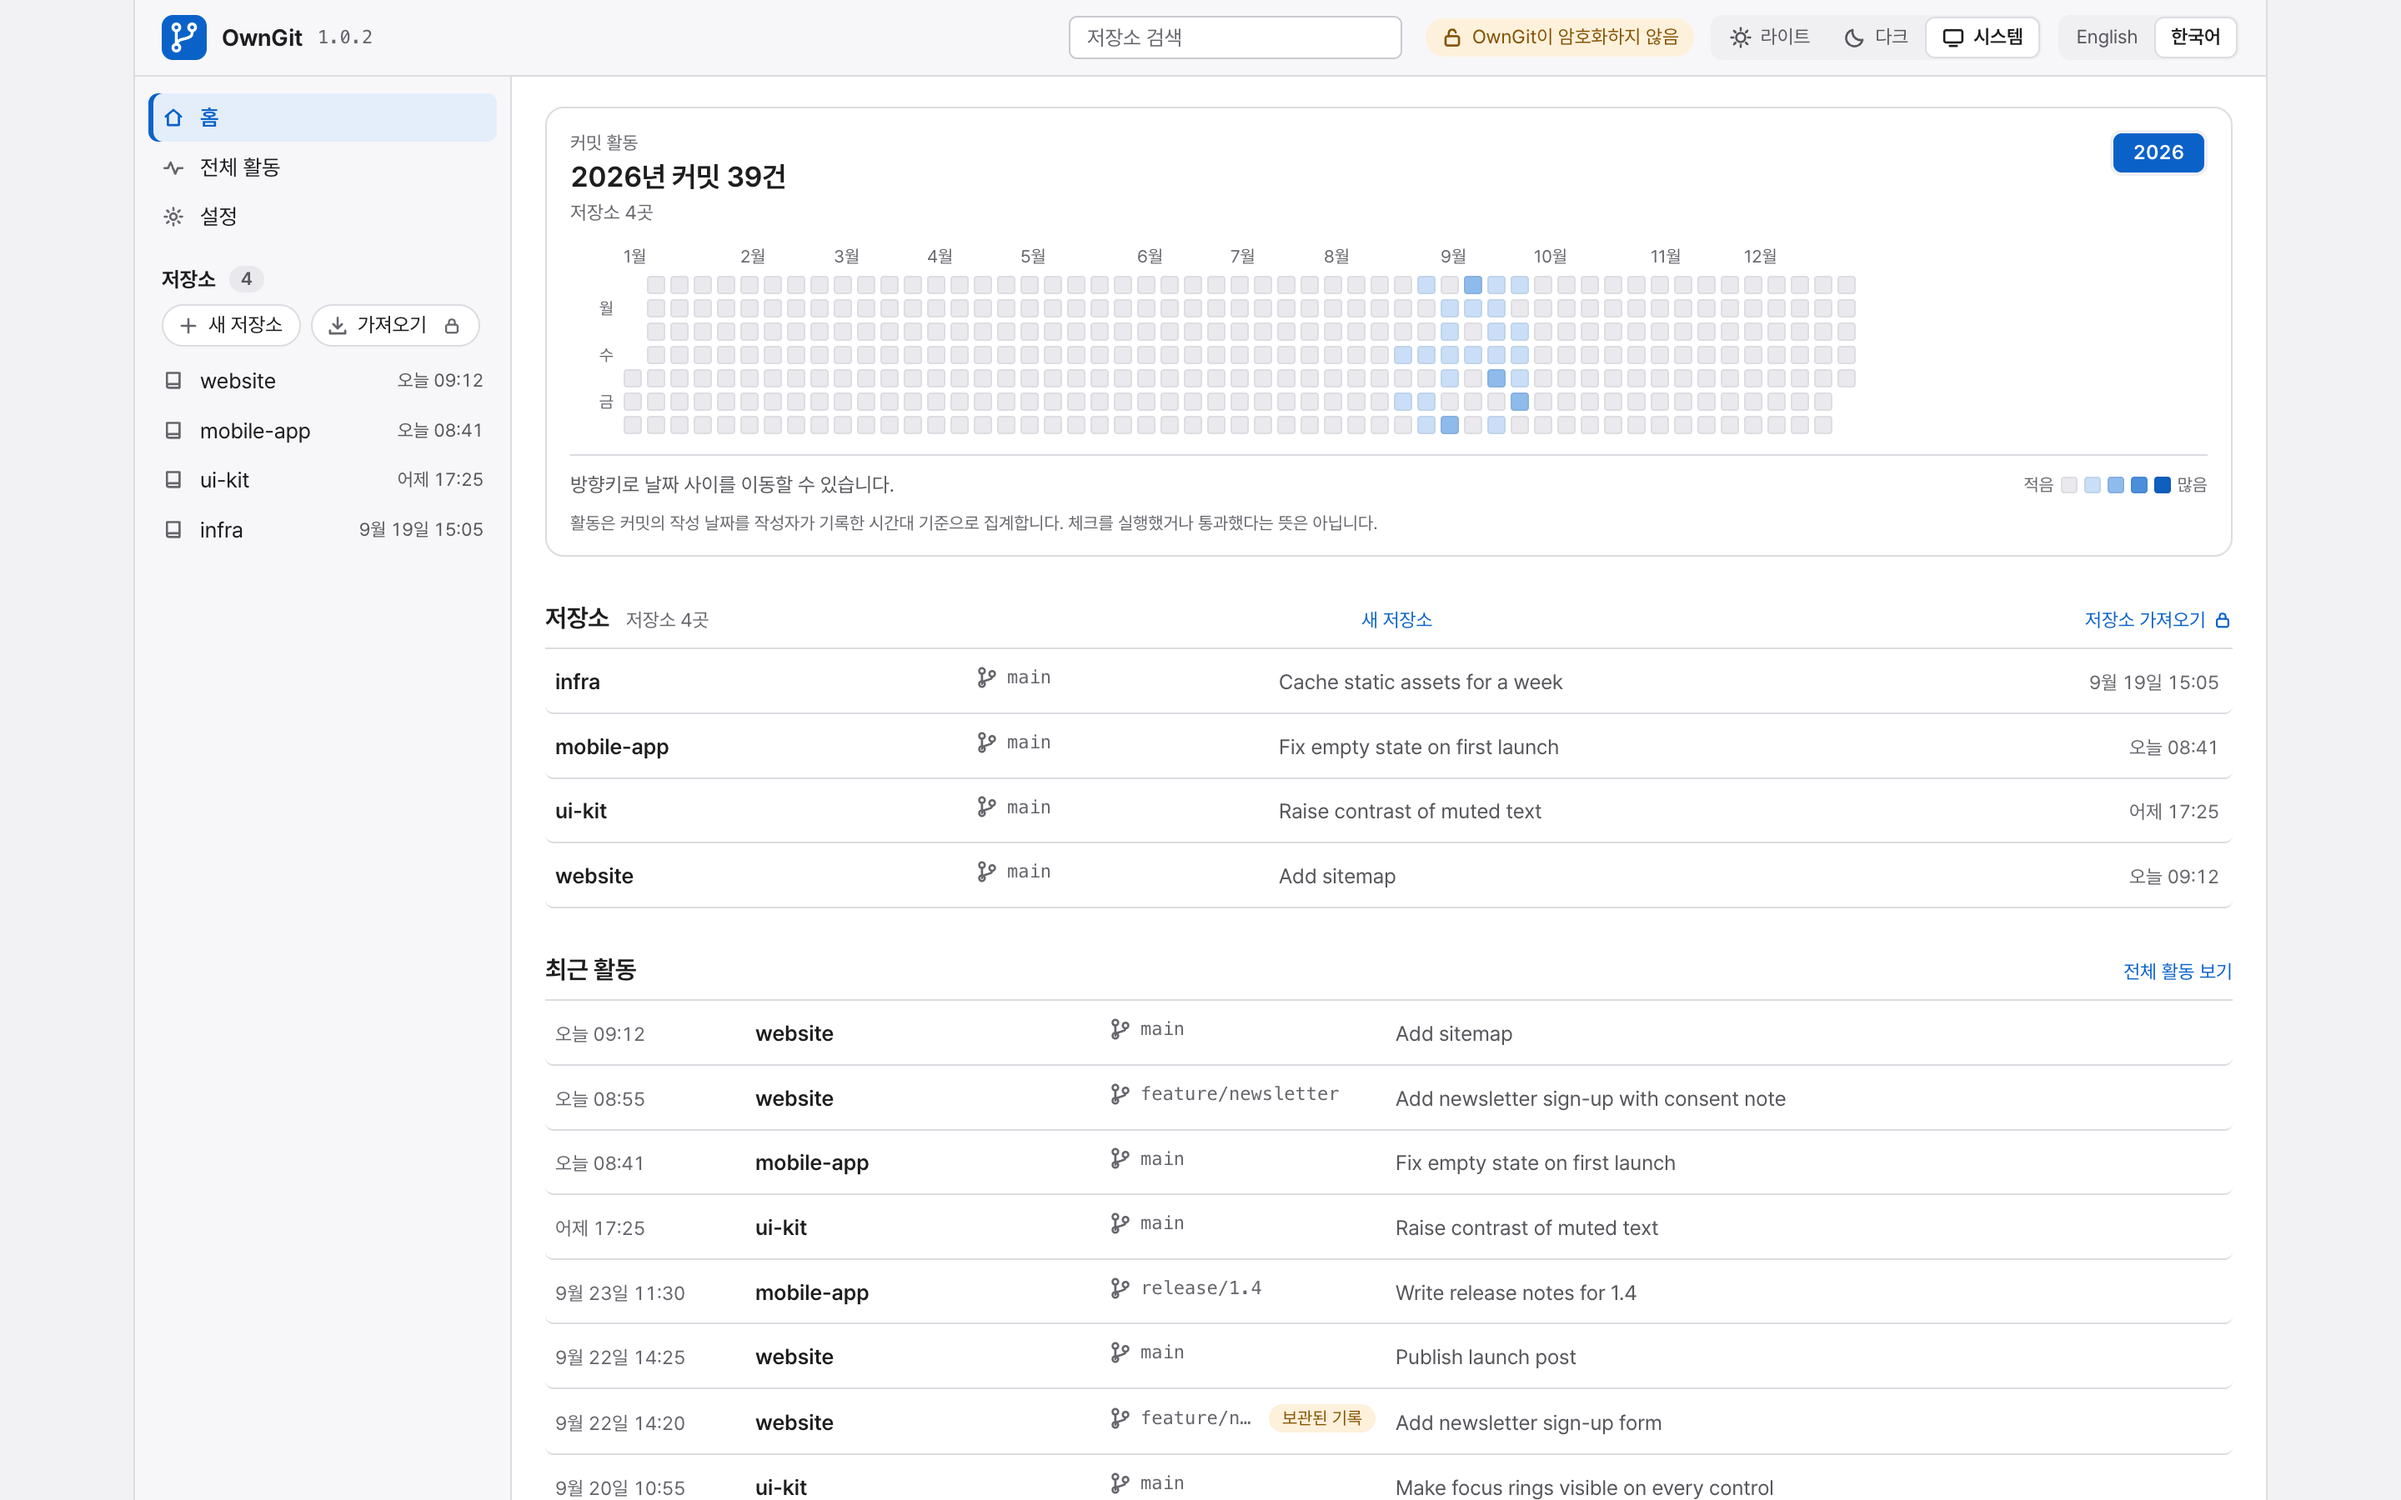
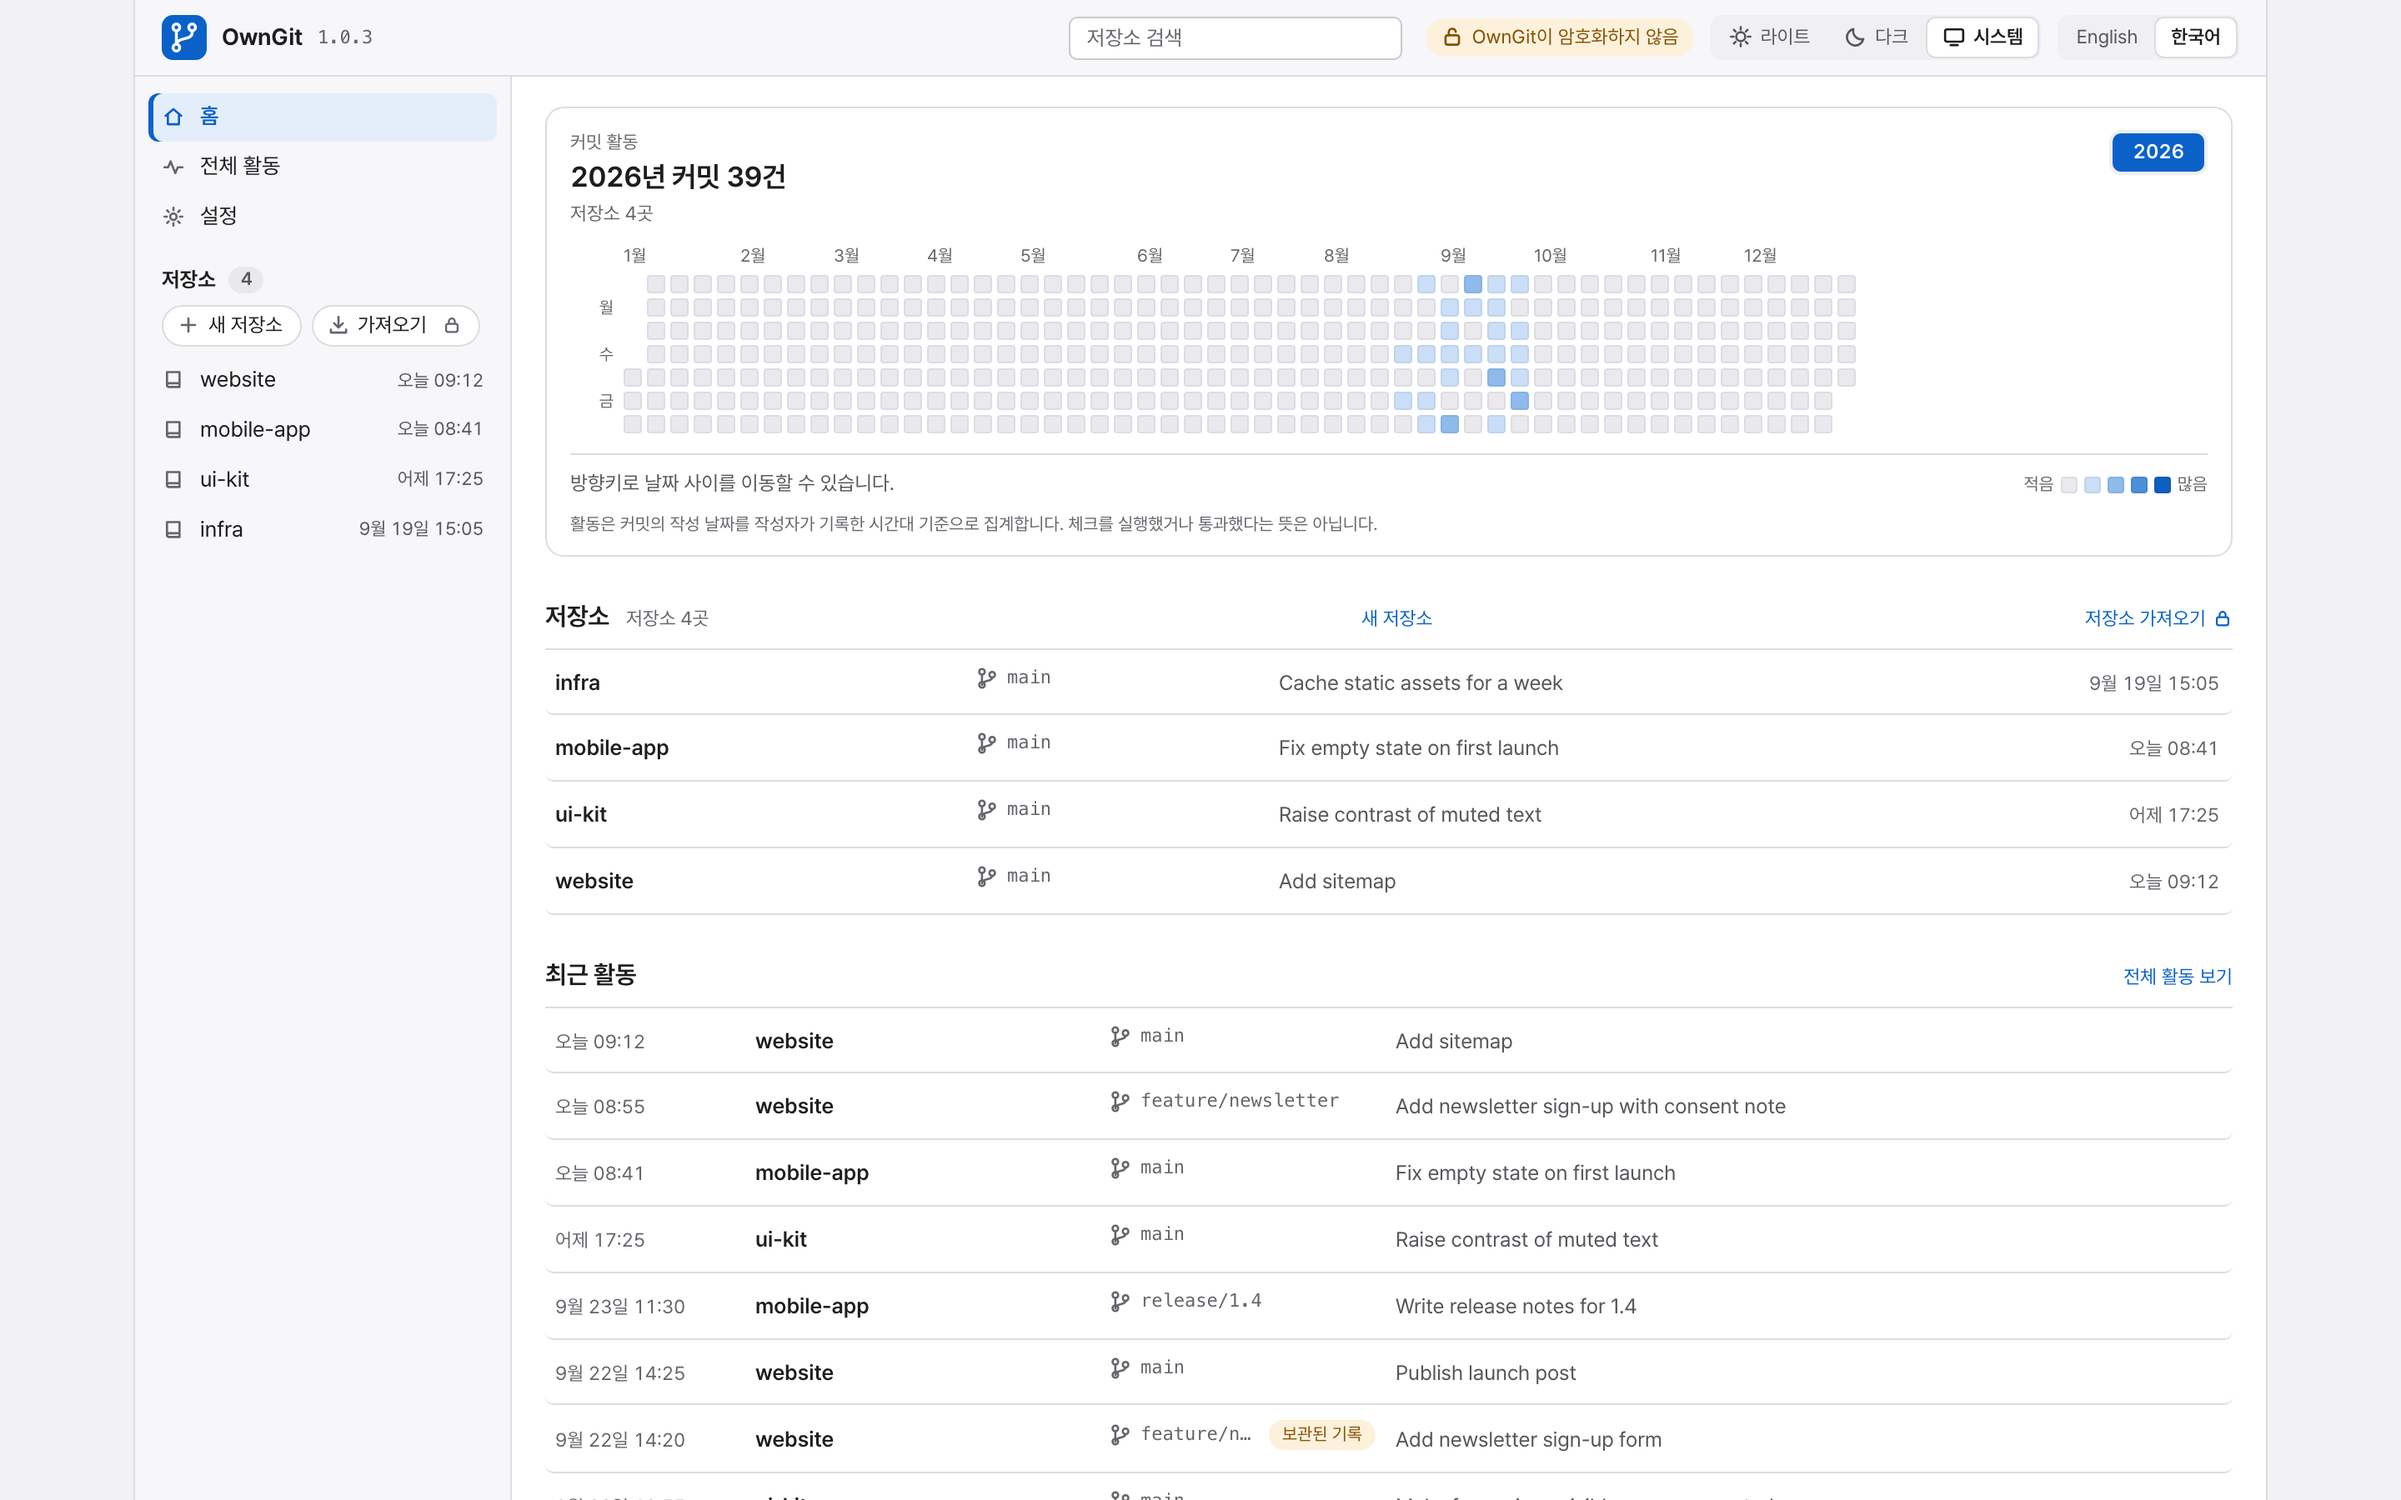
release: 1.0.3
Version 1.0.3, the CHANGELOG section, the version badges and the README
screenshots of the current dashboard.

diff --git a/internal/version/version.go b/internal/version/version.go
@@ -7,4 +7,4 @@
 package version
 
 // Version is the only application version literal in the source tree.
-const Version = "1.0.2"
+const Version = "1.0.3"

diff --git a/CHANGELOG.md b/CHANGELOG.md
@@ -4,6 +4,73 @@ All notable changes to OwnGit are documented in this file.
 
 The format is based on [Keep a Changelog](https://keepachangelog.com/en/1.1.0/).
 
+## [1.0.3] - 2026-09-25
+
+**Upgrading:** the state database moves to schema 15 and offline backups to version 10. OwnGit 1.0.3 upgrades a 1.0.x database the first time it starts and still restores backups of versions 1, 2, 9 and 10. Earlier versions refuse the upgraded database and the new backups with a "newer version" message. To go back, restore a backup made before upgrading with the earlier version. Before you upgrade, stop OwnGit and make a backup with your current version's `owngit backup` (see Offline backups in the operations guide). Any 1.0.3 command that opens the state, including `backup`, upgrades the database first, and it logs one line when it does.
+
+**Changes for scripts:** `import add` and `import refresh` exit with status 3 when a finished run left refs that differ from the source, and with status 130 when cancelled. `check run` without `--check` runs only the checks committed in the revision it tests. Commands called without an action, and actions given another action's options, now fail with usage. Details are below.
+
+### Added
+
+- First-run setup in the terminal. When `owngit serve` starts in an interactive terminal on an installation that is not set up, it asks the setup questions there, starting with the language, and hides passwords as you type. You can choose the web dashboard instead: the browser and the terminal show the same short code, and you approve that browser in the terminal. Services, background jobs and redirected output keep the setup link flow. The last step prints a ready-to-copy command for reaching OwnGit over Tailscale when Tailscale is running; it changes nothing.
+- Pull requests can be closed without merging and reopened, in the browser, the API and `owngit pr close` and `owngit pr reopen`. Only one open pull request per source and target branch is allowed.
+- A sidebar replaces the tab row. Outside a repository it lists Home, All activity, Settings and your repositories by recent activity; inside one it lists the repository's pages. On narrow screens it folds into a menu.
+- The repository overview shows the README and the languages the repository is written in. Language colors come from GitHub Linguist.
+- Markdown files are rendered, with a Preview and Source switch; folders show their README. Rendering runs in a separate, time- and memory-limited process with raw HTML turned off.
+- The Code tab previews PNG, JPEG, GIF and WebP images up to 10 MB and has "Download this file". Long lines do not wrap unless you turn on Wrap lines, which is remembered.
+- Commit and pull request pages list the changed files first and show all diffs on one page, with controls to collapse each file or all of them.
+- A notice on the dashboard when a new OwnGit release is available, with links to the release notes and install instructions. OwnGit checks GitHub about 30 seconds after it starts and then daily, and sends nothing but its version. Turn it off in Settings or with `owngit serve --no-update-check`. OwnGit does not download or install updates.
+- Idle-time repository maintenance. Five minutes after a repository was last changed and used, OwnGit packs its refs and objects and writes a commit graph; between 03:00 and 05:00 it also combines repositories with many packs. It never removes objects, refs or kept history, and it steps aside for pushes, checks and page views.
+- Arch Linux and Omarchy: each release includes a `PKGBUILD` that installs the release binary with `makepkg -si`. See the README.
+- `owngit <command> --help` prints the command's usage and options.
+- Korean versions of the operations, automatic checks, coding tools and security guides.
+
+### Changed
+
+- Pull request changes are compared from the merge base, like `git diff target...source`. Files that only the target branch received are no longer listed. Without a single common commit, the page says so instead of showing a list.
+- Repository pages start far fewer Git processes (for example, pull request details 3 instead of 46) and keep recently read folders, files, diffs and comparisons in memory, up to 64 MiB. A page opened again answers even while a push holds the repository. Server memory can peak about 100 MB higher.
+- Refs changed directly in the repository folder, without OwnGit, reach code and commit pages after OwnGit next writes to that repository or restarts, as they already did on the dashboard.
+- When one repository cannot be prepared at startup, for example because its network share hangs, OwnGit serves the other repositories and keeps retrying that one in the background. Until it is ready, its pages show a notice and Git requests answer 503.
+- A busy repository no longer stalls the dashboard. The dashboard waits about a second and then shows the last listing or "In use"; a busy repository page answers 503 with `Retry-After`.
+- A missing branch, tag, path or commit answers 404 on every repository tab, with a way back to the repository.
+- Check jobs for several branches pushed in quick succession wait for the repository instead of ending as unavailable.
+- Saving a new check policy no longer queues again the branches and pull requests that already had a job. Jobs still waiting when a new policy is saved end as `interrupted`.
+- `owngit runner` keeps running while OwnGit restarts or the network drops, retrying with backoff. It stops only when its token or requests are refused.
+- `owngit import cancel` cancels a first import at any stage before the repository is published and leaves no repository, source or credentials behind.
+- On macOS, when Git on the PATH is Apple's `/usr/bin/git` shim, OwnGit runs the Git behind it if the version matches, which halves the cost of each Git process.
+- OwnGit holds a lock file in the repository folder while it runs, so a second OwnGit started from a copied state directory stops instead of changing the repositories.
+- The Import tab is shown to everyone who can open the repository. The source address, credentials and technical messages are shown only to administrators.
+- Password length rules count characters instead of bytes (8 to 1024).
+- Light, Dark and System appearance work without JavaScript.
+- `import add` refuses a name that already has a repository. `import add` and `import refresh` exit with status 3 when a finished run left refs that differ from the source and list them, and with status 130 when cancelled.
+- Commands without an action print usage and exit 1, and actions refuse options that belong to another action.
+- When OwnGit upgrades an existing state database, it says so in one line, for example `state database upgraded from schema 14 to 15`: in the server log for `serve`, and on standard error for offline commands such as `backup`.
+- A Markdown list or paragraph without blank lines that has more than about 8,000 `*`, `_` or `~` characters (underscores inside words count) shows as source from a smaller size than before, because rendering it can take the whole time limit on a slower machine. Documents made of ordinary paragraphs render as before.
+
+### Fixed
+
+- Clone, fetch and pull failed when Git compressed its request, for example when cloning a repository with 18 or more branches and tags. OwnGit now decompresses these requests with a size limit.
+- Parallel Git commands with the correct shared password were refused by the sign-in limiter.
+- One repository could take every transfer slot, and a waiting request could wait up to 30 minutes. A repository now uses at most four of the five slots, and a request that waits more than 90 seconds gets 503.
+- A stalled or oversized upload held its connection and slot until the 30-minute deadline.
+- A repository whose folder was missing or unreadable turned the dashboard into an error page. It is now listed as Preparing or Unreadable.
+- Repository names ending with a dot could not be cloned or pushed.
+- Merging a pull request whose source the target already contained wrote an empty merge commit. It is now recorded as merged, already up to date.
+- A default branch change or repository deletion could fail with 409 while the activity graph was being counted.
+- Saving an import token or Basic credential dropped a stored CA certificate, and the reverse. A failed or interrupted first import left its source and credentials behind.
+- A ref deleted at the import source was shown as Tracked. It is now shown as Deleted at source.
+- After a session expired, submitting a form returns to the page with the form after you sign in again.
+- Result notices, such as "Pull request merged", could be shown by opening a crafted address and appeared again on reload. They now appear once, after the action.
+- Signing out of shared access was confirmed only after the next sign-in.
+- Merging or reviewing after a branch was deleted answered 500 in the API.
+- Stopping OwnGit during a Git transfer now ends the transfer and exits normally. Refused pushes are logged.
+- On Windows, an automatic check whose command succeeded was sometimes recorded as `error` with a cleanup error such as "owned job membership changed during process capture".
+- On Windows, cancelling a Git request, for example when the client disconnects, could leave a Git process that produced no output running until it wrote output or exited on its own. It now stops at once.
+
+### Security
+
+- `owngit check run` without `--check` no longer falls back to a check configuration recorded from another branch. A command that is not committed in the revision being tested never runs on your machine.
+
 ## [1.0.2] - 2026-09-24
 
 ### Added

diff --git a/README.ko.md b/README.ko.md
@@ -5,7 +5,7 @@
 <h1 align="center">OwnGit</h1>
 
 <p align="center">
-  <a href="CHANGELOG.md"><img src="https://img.shields.io/badge/version-1.0.2-0A62C9?style=flat&colorA=222222" alt="버전 1.0.2"></a>
+  <a href="CHANGELOG.md"><img src="https://img.shields.io/badge/version-1.0.3-0A62C9?style=flat&colorA=222222" alt="버전 1.0.3"></a>
   <a href="CHANGELOG.md"><img src="https://img.shields.io/badge/changelog-keep-E05735?style=flat&colorA=222222" alt="변경 기록"></a>
   <a href="LICENSE"><img src="https://img.shields.io/badge/license-MIT-58A6FF?style=flat&colorA=222222" alt="MIT 라이선스"></a>
   <a href="https://github.com/juliankang4/homebrew-tap"><img src="https://img.shields.io/badge/Homebrew-juliankang4%2Ftap-FBB040?style=flat&colorA=222222&logo=homebrew&logoColor=white" alt="Homebrew tap juliankang4/tap"></a>

diff --git a/README.md b/README.md
@@ -5,7 +5,7 @@
 <h1 align="center">OwnGit</h1>
 
 <p align="center">
-  <a href="CHANGELOG.md"><img src="https://img.shields.io/badge/version-1.0.2-0A62C9?style=flat&colorA=222222" alt="Version 1.0.2"></a>
+  <a href="CHANGELOG.md"><img src="https://img.shields.io/badge/version-1.0.3-0A62C9?style=flat&colorA=222222" alt="Version 1.0.3"></a>
   <a href="CHANGELOG.md"><img src="https://img.shields.io/badge/changelog-keep-E05735?style=flat&colorA=222222" alt="Changelog"></a>
   <a href="LICENSE"><img src="https://img.shields.io/badge/license-MIT-58A6FF?style=flat&colorA=222222" alt="MIT License"></a>
   <a href="https://github.com/juliankang4/homebrew-tap"><img src="https://img.shields.io/badge/Homebrew-juliankang4%2Ftap-FBB040?style=flat&colorA=222222&logo=homebrew&logoColor=white" alt="Homebrew tap juliankang4/tap"></a>
